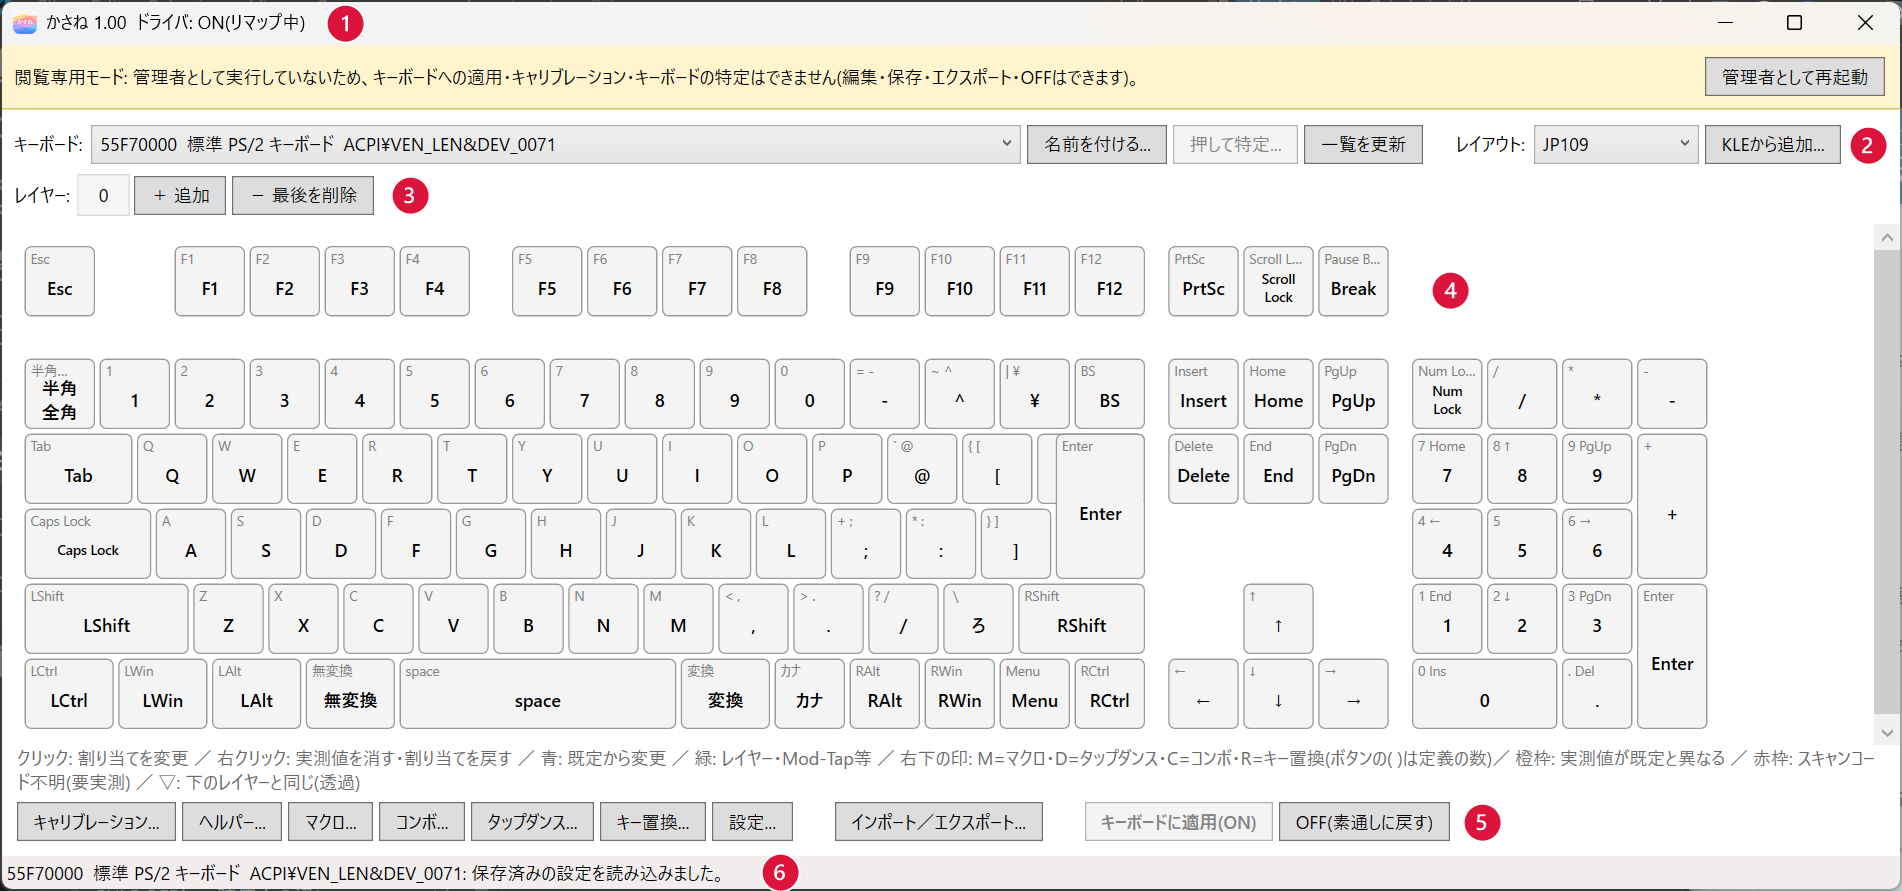
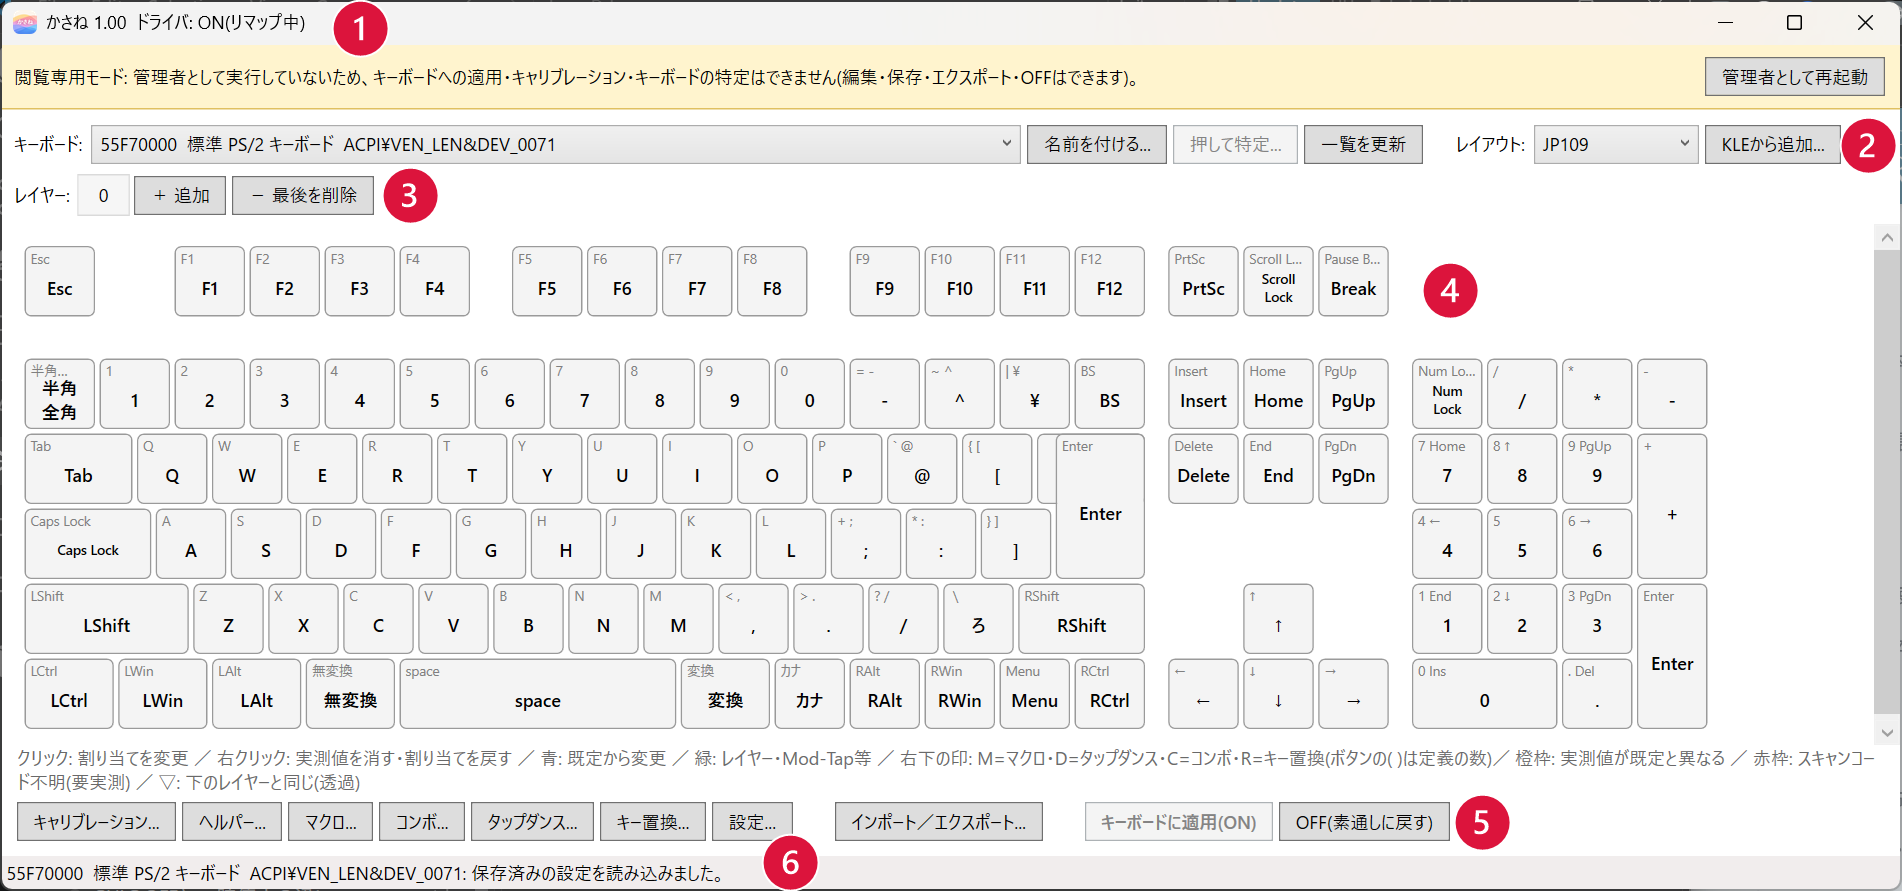
docs: 設定の例に IME のオン・オフと AltGr を追加し、付録のトラブル対応を直す
- 12 章: 例 6(Caps Lock で IME をオン・オフし、Shift+Caps Lock で Caps Lock。特定のキーの IME オン/オフは F13、F14 に置き換えて IME 側で対応する付記)と、
  例 7(右 Alt を LCtrl+LAlt の同時押し(AltGr)にする)を足し、以降を 8〜11 に繰り下げる。
- 付録: USB ポートや Bluetooth の再ペアリングの項に、設定の共有範囲への案内を足す。
  右 Alt が AltGr(LCtrl+LAlt)の出力になる例を足す(米国・日本・韓国以外のキーボード配列は Windows の仕様で、かさね では解決できない)。
- 番号の丸を、さらに 1.5 倍にする。
- 例のキーコードを ManualRecipeTokensTests に足す。

diff --git a/docs/manual/ja/12-recipes.html b/docs/manual/ja/12-recipes.html
@@ -63,20 +63,28 @@
 <td><a href="#recipe5">例 5</a></td>
 </tr>
 <tr>
-<td>Shift+2 で <code>&quot;</code> が出るようにする</td>
+<td>Caps Lock で IME をオン・オフし、Shift+Caps Lock で Caps Lock にする</td>
 <td><a href="#recipe6">例 6</a></td>
 </tr>
 <tr>
-<td>Shift+BS を Delete にする</td>
+<td>右 Alt を、左 Ctrl と左 Alt の同時押し（AltGr）にする</td>
 <td><a href="#recipe7">例 7</a></td>
 </tr>
 <tr>
-<td>Ctrl+1 で、キーの並び（マクロ）を出す</td>
+<td>Shift+2 で <code>&quot;</code> が出るようにする</td>
 <td><a href="#recipe8">例 8</a></td>
 </tr>
 <tr>
-<td>テンキーを、押すたびに切り替わる 3 つの配置にする</td>
+<td>Shift+BS を Delete にする</td>
 <td><a href="#recipe9">例 9</a></td>
+</tr>
+<tr>
+<td>Ctrl+1 で、キーの並び（マクロ）を出す</td>
+<td><a href="#recipe10">例 10</a></td>
+</tr>
+<tr>
+<td>テンキーを、押すたびに切り替わる 3 つの配置にする</td>
+<td><a href="#recipe11">例 11</a></td>
 </tr>
 </tbody>
 </table>
@@ -204,7 +212,66 @@
 </table>
 <p><strong>基本</strong> カテゴリの <strong>KC_NO</strong>（✕）を選んでも、同じです。</p>
 <p><a id="recipe6"></a></p>
-<h2 id="shift2">例 6: Shift+2 で <code>&quot;</code> が出るようにする</h2>
+<h2 id="caps-lock-ime-shiftcaps-lock-caps-lock">例 6: Caps Lock で IME をオン・オフし、Shift+Caps Lock で Caps Lock にする</h2>
+<p>Caps Lock を、日本語入力（IME）のオン・オフのキー（半角/全角キー）にして、Shift を押しながら押したときだけ、本来の Caps Lock にする例です。キーの割り当てと、キー置換を使います。</p>
+<ol>
+<li>Caps Lock を、<code>KC_ZKHK</code>（半角/全角キー）に割り当てます。<strong>NLS</strong> カテゴリの <strong>半/全</strong> を選んでもかまいません。</li>
+<li>エディタの画面下の <strong>キー置換...</strong> を開き、次のように入力して、<strong>OK</strong> を押します。</li>
+</ol>
+<table>
+<thead>
+<tr>
+<th>項目</th>
+<th>入力</th>
+</tr>
+</thead>
+<tbody>
+<tr>
+<td>修飾キー</td>
+<td><code>MOD_LSFT</code></td>
+</tr>
+<tr>
+<td>キー</td>
+<td><code>KC_ZKHK</code></td>
+</tr>
+<tr>
+<td>置き換え先</td>
+<td><code>KC_CAPSLOCK</code></td>
+</tr>
+</tbody>
+</table>
+<ol start="3">
+<li><strong>設定...</strong> の「機能」タブで、キー置換が ON になっていることを確かめます。</li>
+<li><strong>キーボードに適用(ON)</strong> を押します。</li>
+</ol>
+<p>キー置換の <strong>キー</strong> には、レイヤーの切り替えのあとに出るキー（ここでは、Caps Lock に割り当てた <code>KC_ZKHK</code>）を書きます。置き換えているあいだ、条件の Shift は一時的に離されるので、Caps Lock が、Shift なしで送られます。</p>
+<ul>
+<li>Caps Lock だけを押すと、IME のオンとオフが切り替わります。</li>
+<li>Shift を押しながら Caps Lock を押すと、Caps Lock が切り替わります。</li>
+</ul>
+<blockquote>
+<p>特定のキーを、IME オン、IME オフにしたいときは、そのキーを <code>KC_F13</code>、<code>KC_F14</code> などに置き換えて、IME 側の設定で対応してください。F13〜F24 は、物理のキーがなくても出せます（<a href="08-key-assign.html">8. キーの割り当て</a>）。IME の設定で、割り当てられるキーは、お使いの IME によって違います。</p>
+</blockquote>
+<p><a id="recipe7"></a></p>
+<h2 id="alt-ctrl-alt-altgr">例 7: 右 Alt を、左 Ctrl と左 Alt の同時押し（AltGr）にする</h2>
+<table>
+<thead>
+<tr>
+<th>キー</th>
+<th>割り当てるキーコード</th>
+</tr>
+</thead>
+<tbody>
+<tr>
+<td>右 Alt</td>
+<td><code>LCTL(KC_LALT)</code></td>
+</tr>
+</tbody>
+</table>
+<p>右 Alt を押すと、左 Ctrl と左 Alt を同時に押した状態になります。AltGr のあるキーボード配列（ドイツ語など）の Windows では、AltGr で入力する文字が出ます。AltGr のない配列（米国、日本、韓国）では、Ctrl+Alt のショートカットとして働きます。</p>
+<p>反対に、右 Alt が、意図せず AltGr（左 Ctrl と左 Alt の同時押し）になって困るときは、<a href="16-reference.html">16. 付録</a>のトラブル対応を見てください。</p>
+<p><a id="recipe8"></a></p>
+<h2 id="shift2">例 8: Shift+2 で <code>&quot;</code> が出るようにする</h2>
 <p>US 配列のキーボードを、US 配列の Windows で使っていて、Shift+2 で <code>@</code> が出るのを、<code>&quot;</code> に変える例です。キー置換を使います。</p>
 <ol>
 <li>キーボードのレイアウトを、<code>US104</code> にします。</li>
@@ -241,8 +308,8 @@
 <blockquote>
 <p>反対に、US 配列のキーボードを、JIS 配列の Windows で使っている場合は、Shift+2 で <code>&quot;</code> が出ます。<code>@</code> を出したいときは、置き換え先に <code>KC_LBRC</code> を指定します（<a href="09-advanced.html">9. マクロ・コンボ・タップダンス・キー置換</a>の「キー置換」）。</p>
 </blockquote>
-<p><a id="recipe7"></a></p>
-<h2 id="shiftbs-delete">例 7: Shift+BS を Delete にする</h2>
+<p><a id="recipe9"></a></p>
+<h2 id="shiftbs-delete">例 9: Shift+BS を Delete にする</h2>
 <table>
 <thead>
 <tr>
@@ -265,9 +332,9 @@
 </tr>
 </tbody>
 </table>
-<p>手順は、例 6 と同じです。</p>
-<p><a id="recipe8"></a></p>
-<h2 id="ctrl1">例 8: Ctrl+1 で、キーの並び（マクロ）を出す</h2>
+<p>手順は、例 8 と同じです。</p>
+<p><a id="recipe10"></a></p>
+<h2 id="ctrl1">例 10: Ctrl+1 で、キーの並び（マクロ）を出す</h2>
 <p>例として、全選択してコピーする（Ctrl+A、Ctrl+C）マクロを、Ctrl+1 で出します。マクロとキー置換を使います。</p>
 <ol>
 <li>エディタの画面下の <strong>マクロ...</strong> を開きます。</li>
@@ -307,8 +374,8 @@
 </ol>
 <p>Ctrl+1 を押すと、マクロ 0 が 1 回実行されます。Ctrl+1 そのものは、アプリに届きません。実行の間だけ、押している Ctrl が離されるので、マクロの中で Ctrl を使うキーは、<code>LCTL(KC_A)</code> のように書きます。</p>
 <p>文字列や待ちを含む手順を出したいときは、ヘルパー動作のトリガーを使います（<a href="11-helper-apprules.html">11. ヘルパー動作とアプリ別レイヤー</a>）。</p>
-<p><a id="recipe9"></a></p>
-<h2 id="section-2">例 9: テンキーを、押すたびに切り替わる 3 つの配置にする</h2>
+<p><a id="recipe11"></a></p>
+<h2 id="section-2">例 11: テンキーを、押すたびに切り替わる 3 つの配置にする</h2>
 <p>テンキー単体のキーボードを、0 キーで、レイヤー 0 → 1 → 2 → 0 と切り替えます。</p>
 <ul>
 <li>レイヤー 1: 一部のキーを、ショートカットと修飾キーにする。</li>

diff --git a/docs/manual/ja/16-reference.html b/docs/manual/ja/16-reference.html
@@ -72,7 +72,11 @@
 </tr>
 <tr>
 <td>USB ポートを差し替えたら、あるいは Bluetooth のキーボードを再ペアリングしたら、設定が消えた</td>
-<td>ポートごとに別のキーボードとして扱われます。元のポートに戻すか、エクスポートとインポートで移します（<a href="15-backup-migrate.html">15. バックアップと移行</a>）</td>
+<td>ポートごとに別のキーボードとして扱われます。元のポートに戻すか、エクスポートとインポートで移します（<a href="15-backup-migrate.html">15. バックアップと移行</a>）。設定の共有範囲（<a href="13-settings.html">13. 設定ダイアログ</a>の「共有範囲」）もご覧ください。</td>
+</tr>
+<tr>
+<td>右 Alt を押すと、左 Ctrl と左 Alt を同時に押した（AltGr の）出力になる</td>
+<td>Windows の言語設定で、米国、日本、韓国以外のキーボード配列を使っているときの、Windows のキーボード配列の仕様です。かさね では解決できません。Windows のキーボード配列の設定を見直してください</td>
 </tr>
 <tr>
 <td>キーボードに適用(ON)が押せない</td>

diff --git a/kasane.Tests/ManualRecipeTokensTests.cs b/kasane.Tests/ManualRecipeTokensTests.cs
@@ -22,6 +22,10 @@ public class ManualRecipeTokensTests
     [InlineData("KC_RIGHT")]
     [InlineData("KC_NO")]
     [InlineData("KC_LBRC")]
+    [InlineData("KC_ZKHK")]
+    [InlineData("KC_F13")]
+    [InlineData("KC_F14")]
+    [InlineData("LCTL(KC_LALT)")]
     // テンキーのレイヤーの例
     [InlineData("TO(0)")]
     [InlineData("TO(1)")]
@@ -44,6 +48,7 @@ public class ManualRecipeTokensTests
     [Theory]
     [InlineData("MOD_LSFT", "KC_2", "LSFT(KC_QUOTE)")]     // Shift+2 を " にする(US 配列の Windows)
     [InlineData("MOD_LSFT", "KC_BSPACE", "KC_DELETE")]      // Shift+BS を Delete にする
+    [InlineData("MOD_LSFT", "KC_ZKHK", "KC_CAPSLOCK")]      // Caps Lock を IME(半角/全角)にして、Shift+Caps Lock を Caps Lock にする
     [InlineData("MOD_LCTL", "KC_1", "MACRO(0)")]            // Ctrl+1 でマクロ 0
     public void RecipeKeyOverrides_AreAccepted(string mods, string key, string replacement)
     {

diff --git a/docs/manual/src/ja/16-reference.md b/docs/manual/src/ja/16-reference.md
@@ -11,7 +11,8 @@
 | 赤い枠のキーがある | どのキーか分からないキーです。変更したいときだけ、個別キーのキャリブレーションで実測します。変更しないなら、そのままで構いません |
 | 「OFF なのに入れ替わる」「設定したのに効かない」 | ウィンドウのタイトルバーのドライバの状態（ON、OFF、設定なし）を、最初に見てください（[5. エディタの基本画面](05-editor-basics.html)） |
 | 設定を誤って、入力できなくなった | 緊急解除の組み合わせを、3 秒間押し続けます（[7. 緊急解除](07-emergency.html)） |
-| USB ポートを差し替えたら、あるいは Bluetooth のキーボードを再ペアリングしたら、設定が消えた | ポートごとに別のキーボードとして扱われます。元のポートに戻すか、エクスポートとインポートで移します（[15. バックアップと移行](15-backup-migrate.html)） |
+| USB ポートを差し替えたら、あるいは Bluetooth のキーボードを再ペアリングしたら、設定が消えた | ポートごとに別のキーボードとして扱われます。元のポートに戻すか、エクスポートとインポートで移します（[15. バックアップと移行](15-backup-migrate.html)）。設定の共有範囲（[13. 設定ダイアログ](13-settings.html)の「共有範囲」）もご覧ください。 |
+| 右 Alt を押すと、左 Ctrl と左 Alt を同時に押した（AltGr の）出力になる | Windows の言語設定で、米国、日本、韓国以外のキーボード配列を使っているときの、Windows のキーボード配列の仕様です。かさね では解決できません。Windows のキーボード配列の設定を見直してください |
 | キーボードに適用(ON)が押せない | 閲覧専用モードです。画面上部の **管理者として再起動** を押します |
 | インストールに失敗した | [1. インストール](01-install.html)の「うまくいかないとき」を見てください |
 
